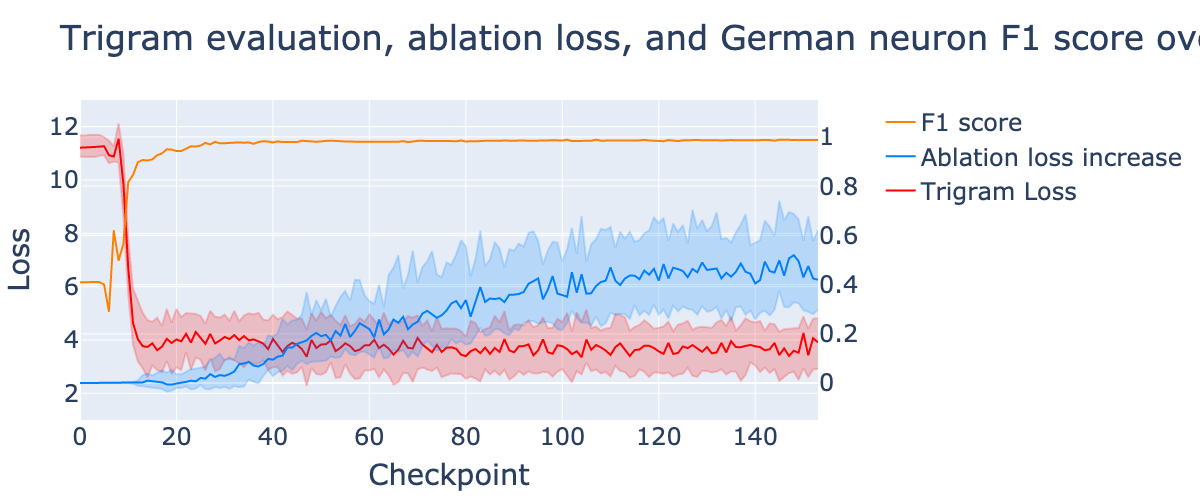
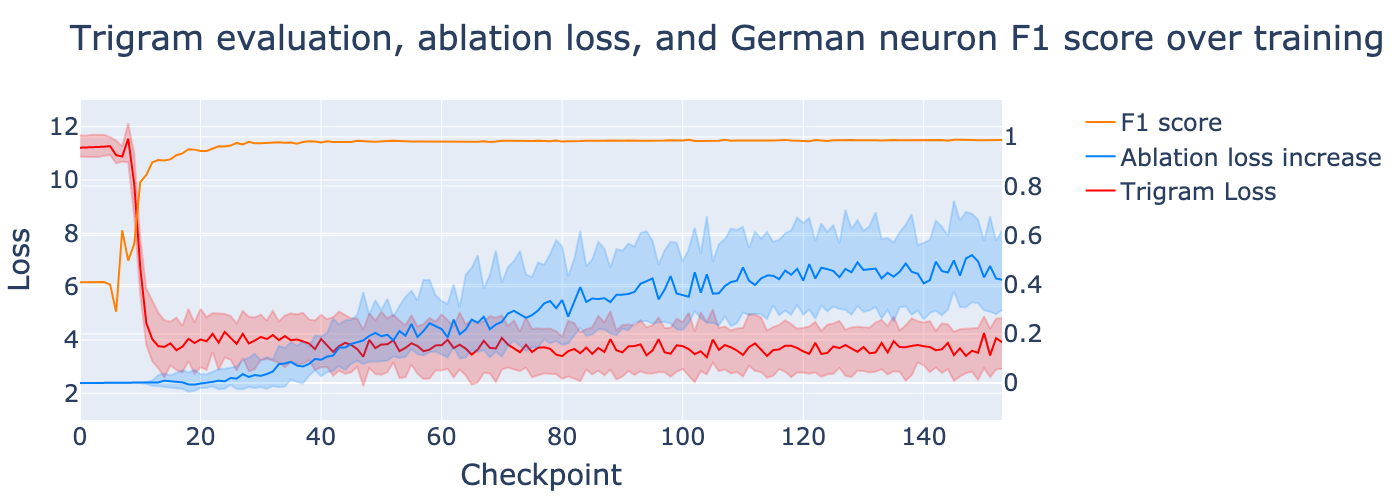
fix overflow in figure 1

diff --git a/ngram_evaluation_viz.py b/ngram_evaluation_viz.py
@@ -89,7 +89,7 @@ def process_data(model_name: str, output_dir: Path, image_dir: Path) -> None:
         font=dict(size=24)
     )
 
-    fig.write_image(image_dir.joinpath("figure_1.png"), width=1200)
+    fig.write_image(image_dir.joinpath("figure_1.png"), width=1400)
 
     # Calculate percentiles at each x-coordinate
     percentiles = [0.05, 0.5, 0.95]
